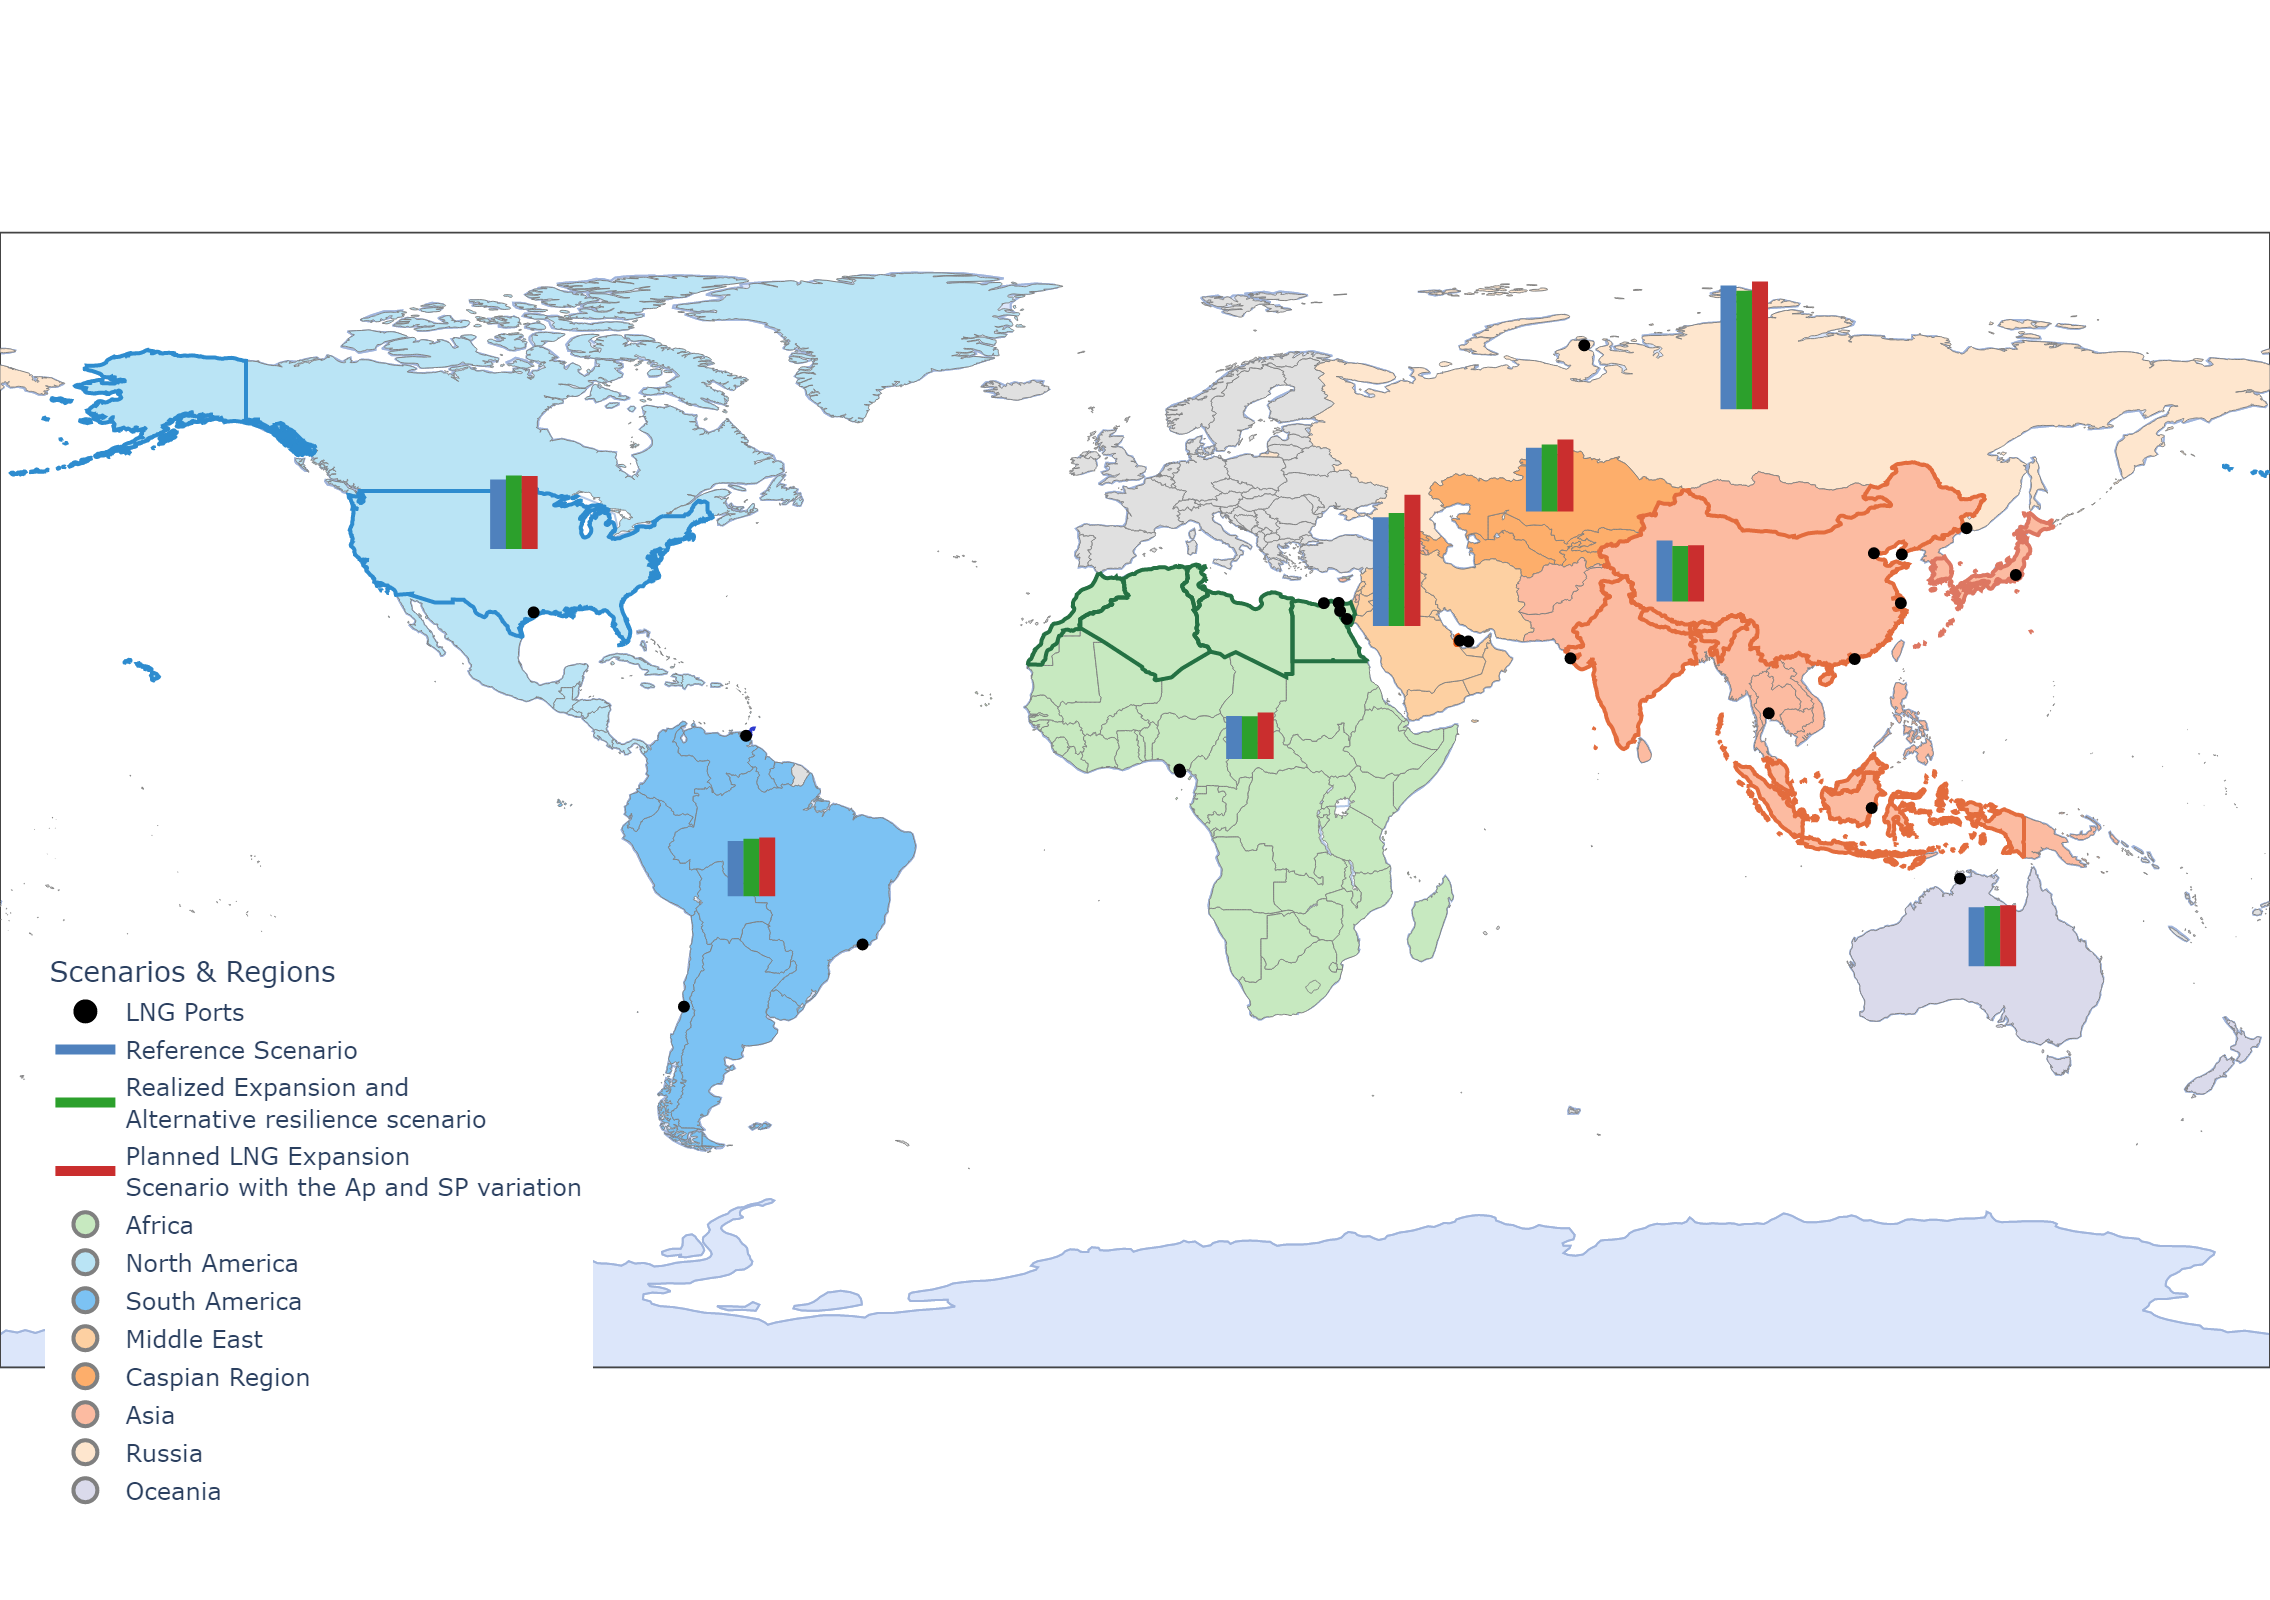
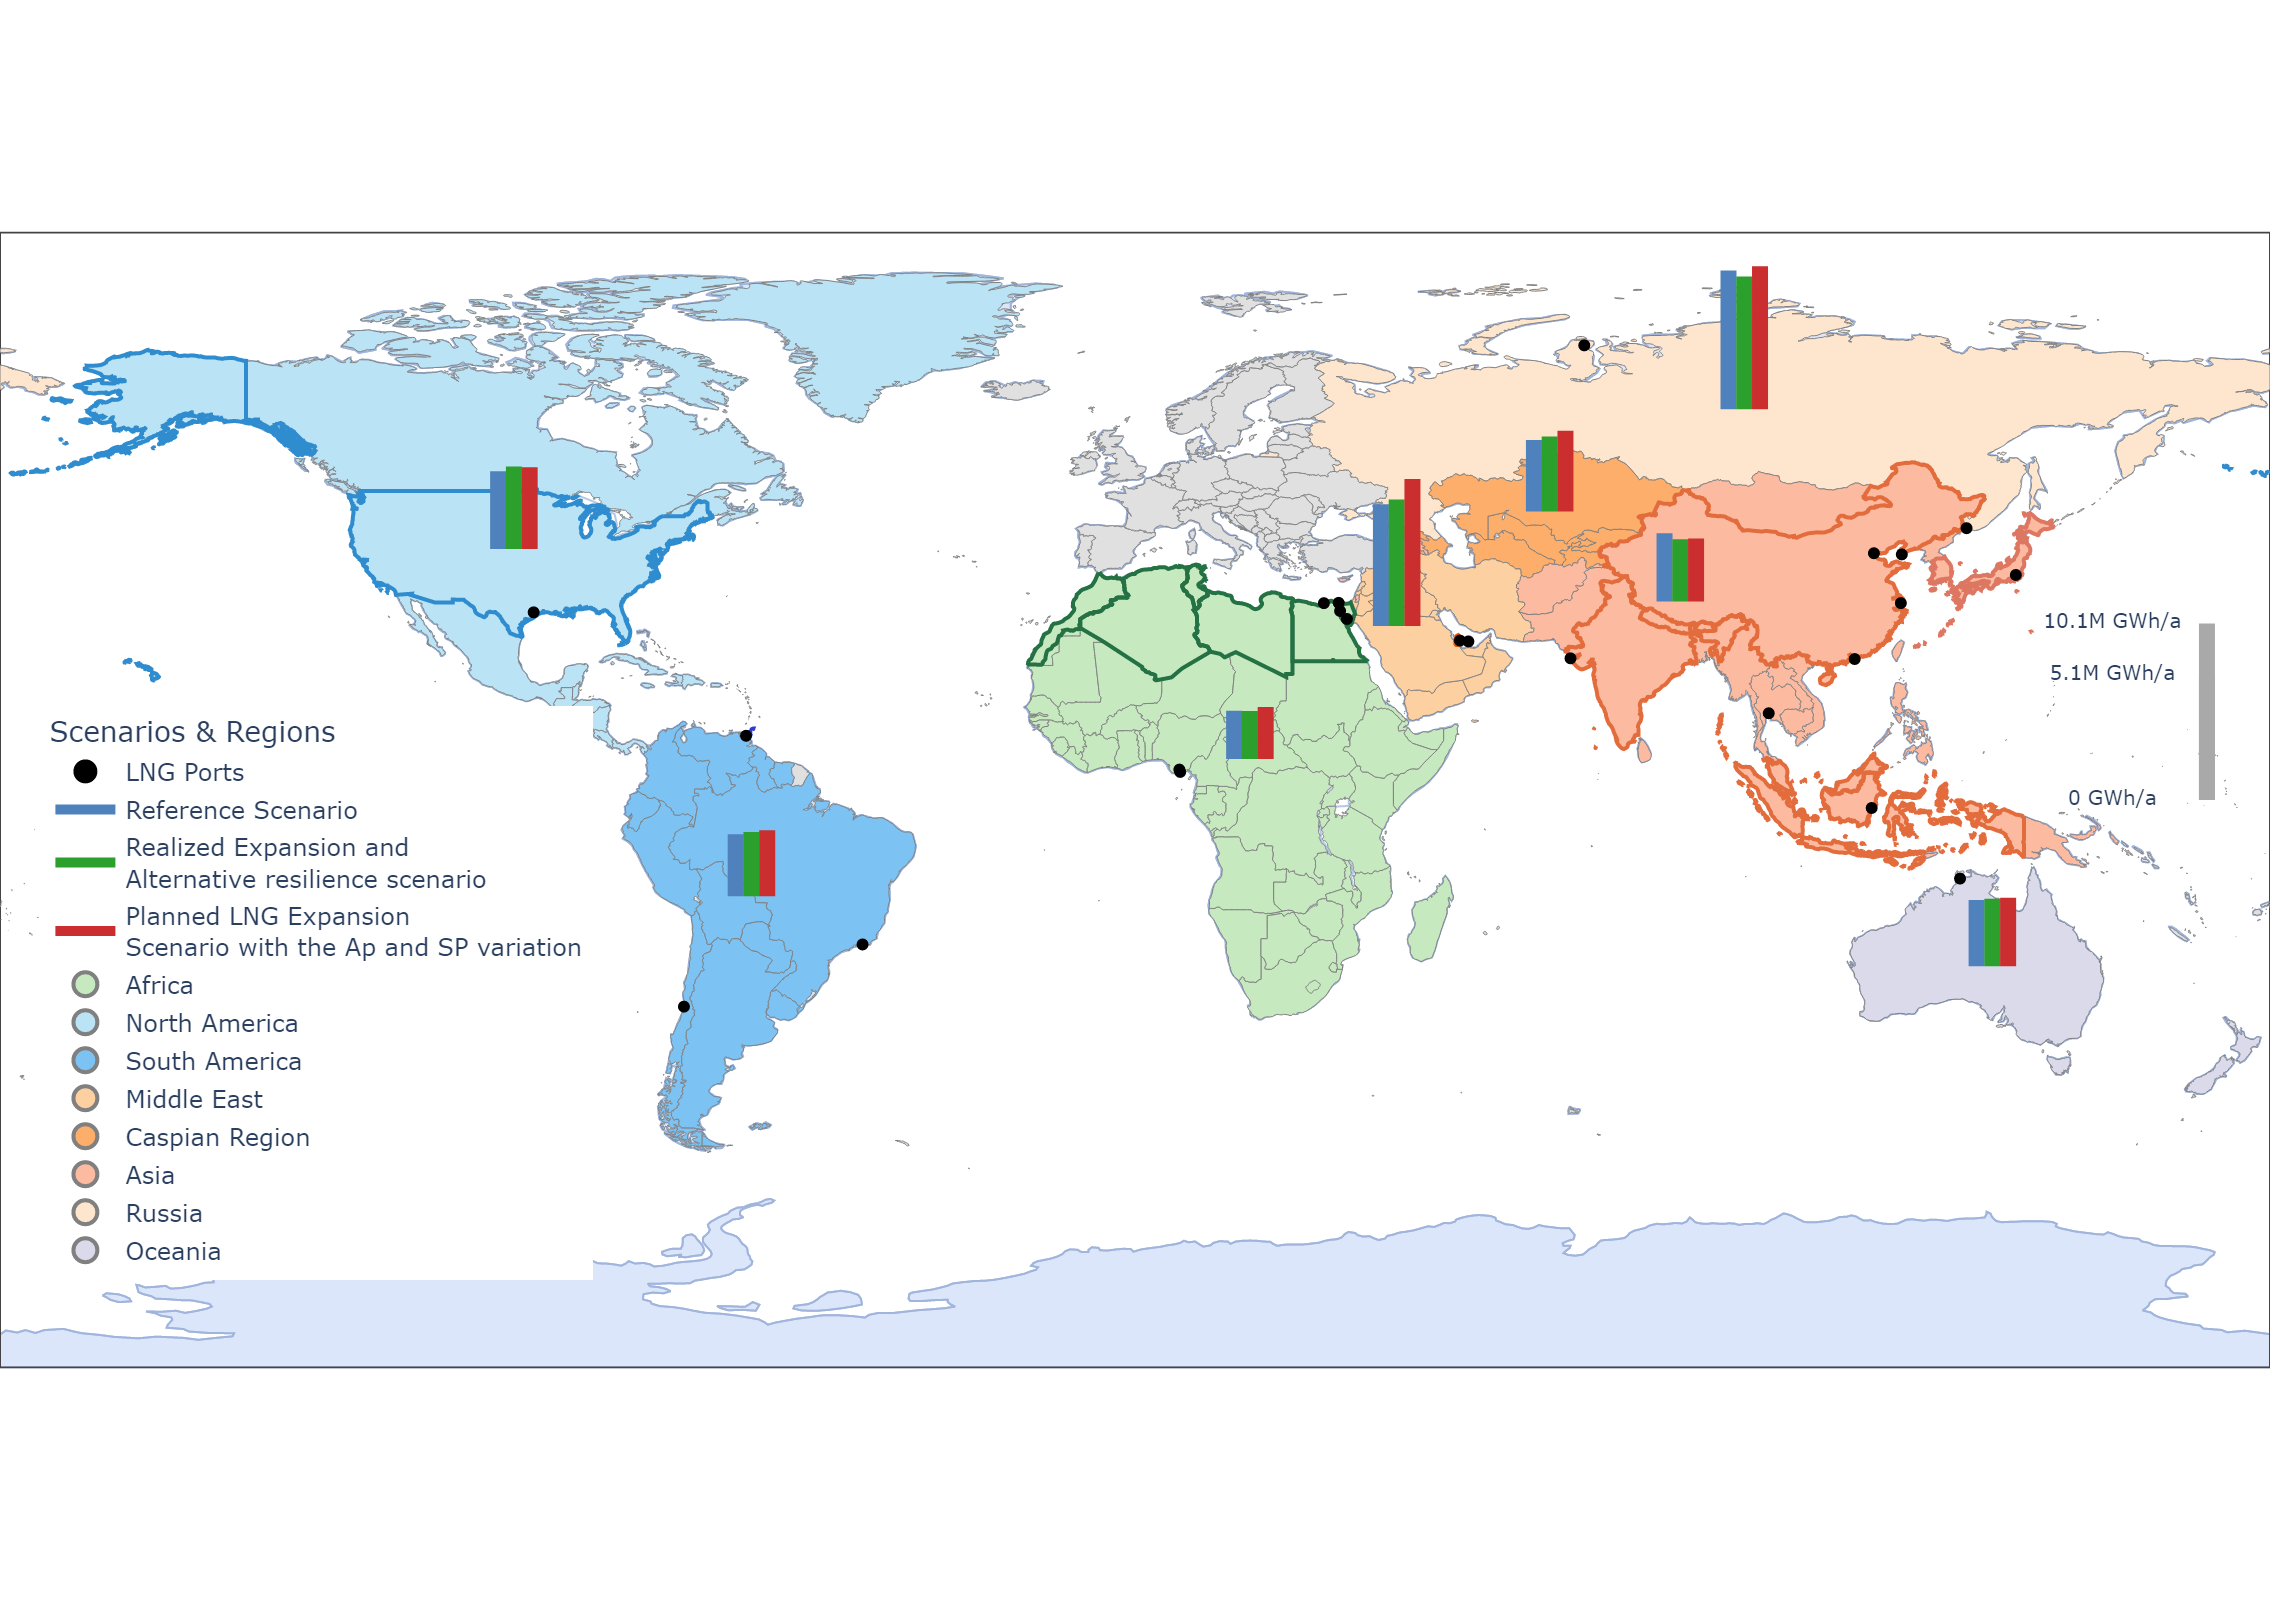
Update world map plotly legend

diff --git a/00_code_base/08_output_preparation/test_gas_prod.py b/00_code_base/08_output_preparation/test_gas_prod.py
@@ -132,7 +132,7 @@ vals_for_scaling = data_gas_prod.loc[data_gas_prod['Country'] != "Total", scenar
 vals_for_scaling = np.array(vals_for_scaling, dtype=float)
 global_max_raw = vals_for_scaling.max()
 global_max_sqrt = np.sqrt(global_max_raw)
-bar_height_scale = 25
+bar_height_scale = 28
 bar_colors = ["#4f81bd", "#2ca02c", "#ca2e2e"]
 bar_spacing = 2.5
 
@@ -178,7 +178,7 @@ for region_name, isos in region_to_countries.items():
         ))
 
 # Add bar height legend
-scale_lon, scale_lat = -160, -55
+scale_lon, scale_lat = 170, 0
 scale_vals = [0, int(global_max_raw/2), int(global_max_raw)]
 
 def human_readable(val):
@@ -194,11 +194,11 @@ for val in scale_vals:
         lon=[scale_lon, scale_lon],
         lat=[scale_lat, scale_lat + np.sqrt(val)/global_max_sqrt*bar_height_scale],
         mode="lines",
-        line=dict(color="lightgrey", width=8),
+        line=dict(color="darkgrey", width=8),
         showlegend=False
     ))
     fig.add_trace(go.Scattergeo(
-        lon=[scale_lon - 2],
+        lon=[scale_lon - 15],
         lat=[scale_lat + np.sqrt(val)/global_max_sqrt*bar_height_scale],
         mode="text",
         text=[f"{human_readable(val)} GWh/a"],
@@ -236,7 +236,7 @@ fig.update_layout(
     legend_title_text="Scenarios & Regions",
     legend=dict(
         yanchor="bottom",
-        y=0.05,
+        y=0.2,
         xanchor="left",
         x=0.02,
         itemsizing="constant",
